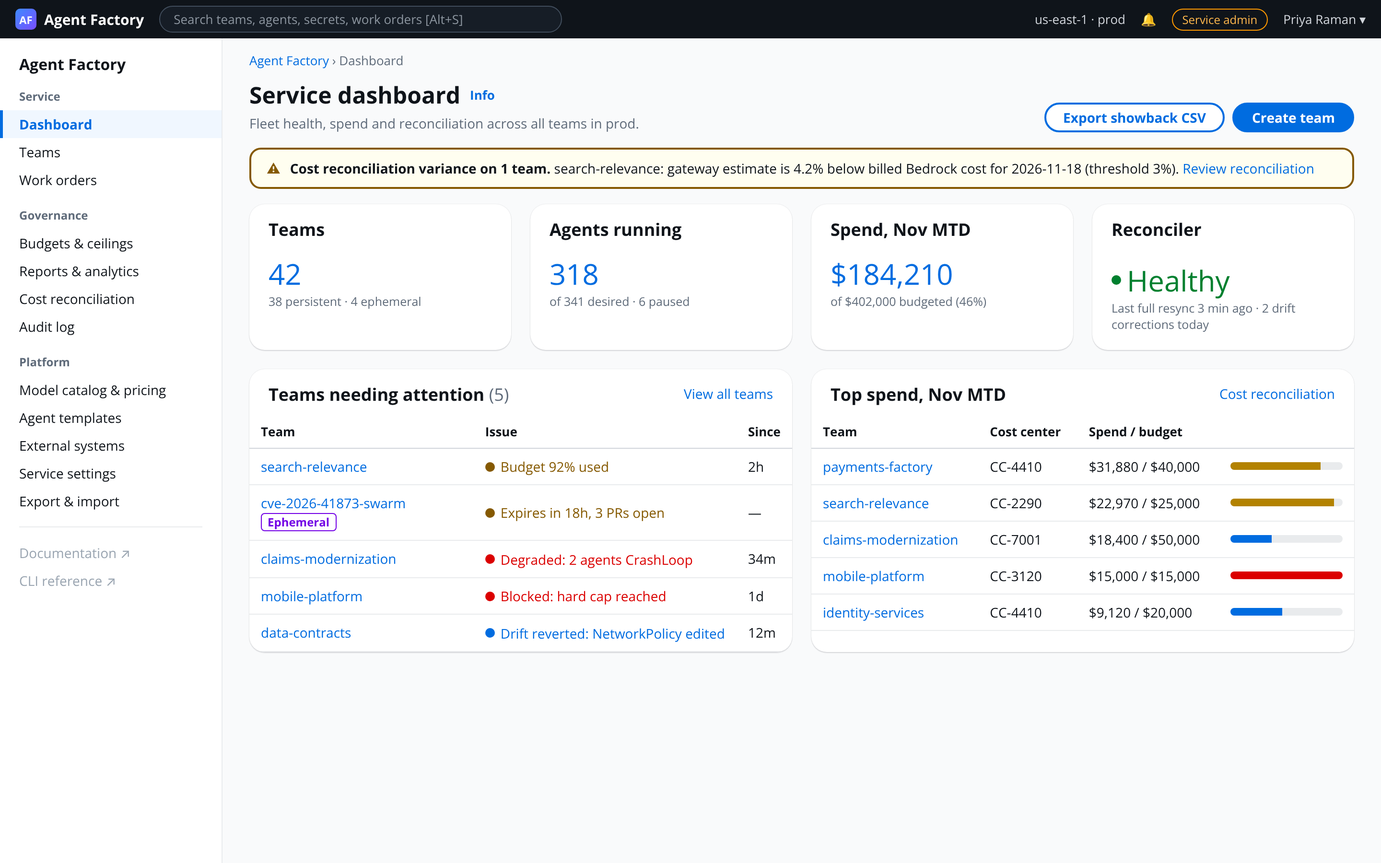
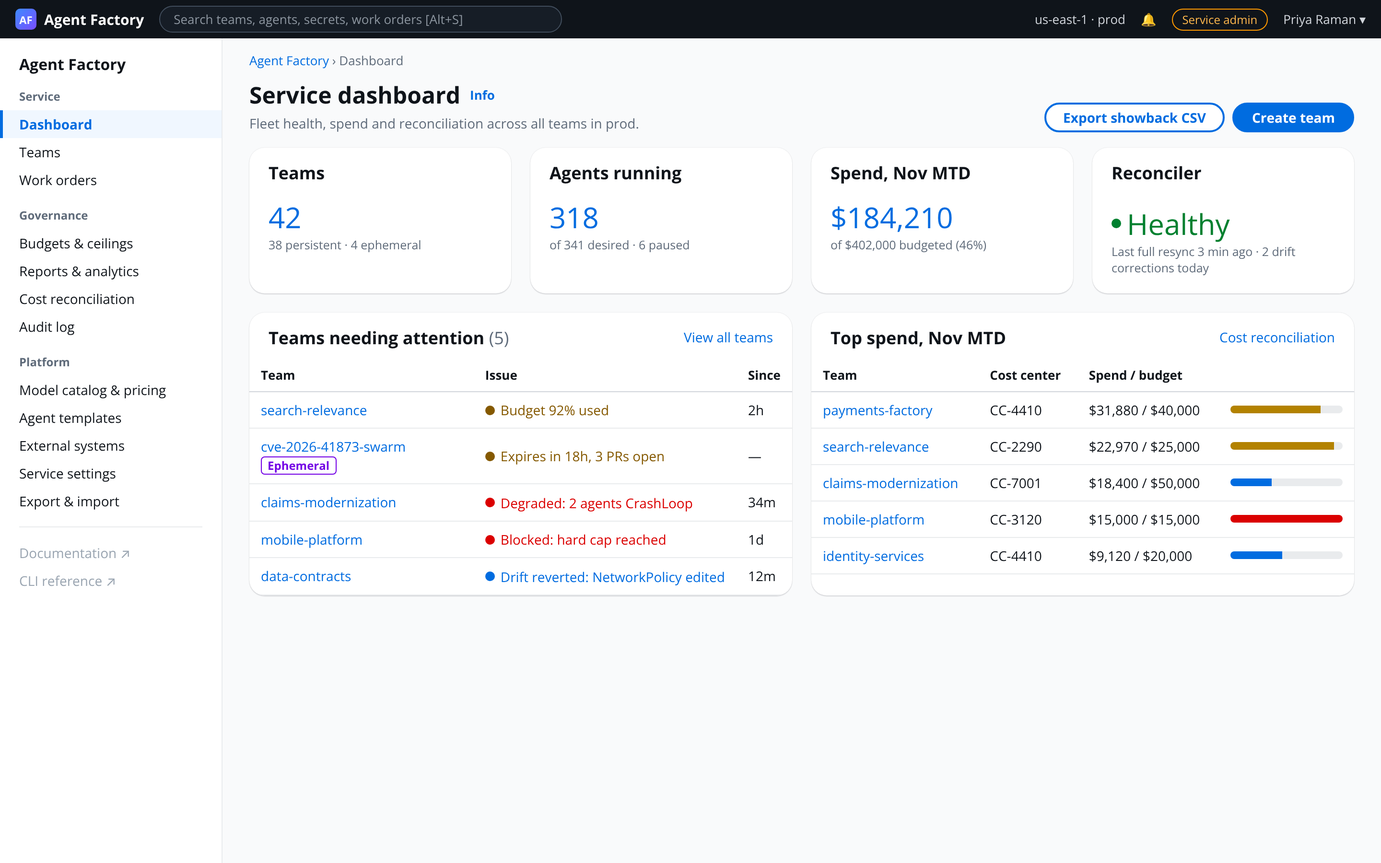
PRD: decisions log from J's answers to open questions and risks
- §10 becomes a decisions log (D1-D10) and a risk register: Okta default
  plus Entra ID at service and team level (ACC-1), Cilium, Agentic
  Teammates CRDs, one cluster per environment, break-glass by service
  admins, team-managed AWS account filter when allowed (TEAM-8, S6),
  non-Bedrock LLMs off, Bun as TypeScript runtime, per-agent credentials
  with login logging and credential redaction (OPS-4), no price-drift
  management (S4, S1, BUD-6). R1, R2, R4 accepted; R3 closed.
- Solution design §2.3 and §7.3 updated; ADR-012.
- Screens S1 (variance banner removed) and S6 (team-managed switch).

Claude-Session: https://claude.ai/code/session_01ScLWHFmFgCNKdDm4Z32AqG

diff --git a/docs/ui/source/18-admin-team-aws-accounts.html b/docs/ui/source/18-admin-team-aws-accounts.html
@@ -158,8 +158,9 @@ tr.sel td:first-child{box-shadow:inset 2px 0 0 var(--blue)}
 <div class="hdr"><div><h1>payments-factory</h1><div class="desc"><span class="st ok">Active</span> · namespace afs-t-payments-factory</div></div><div class="btns"><span class="btn">Suspend</span><span class="btn p">Edit</span></div></div>
 <div class="tabs"><span>Details</span><span>Members</span><span>Budget</span><span class="on">AWS account access</span><span>Audit</span></div>
 <div class="card"><div class="ch"><div><h2>Allowed accounts <span class="info">Info</span></h2>
-<div class="sub">Organization accounts this team's agents may assume roles in. Patterns match account ids or names; <span class="mono">*</span> and <span class="mono">?</span> are wildcards, and <span class="mono">*</span> alone means every account. Team-admins see this list but cannot change it.</div></div>
+<div class="sub">Organization accounts this team's agents may assume roles in. Patterns match account ids or names; <span class="mono">*</span> and <span class="mono">?</span> are wildcards, and <span class="mono">*</span> alone means every account. Team-admins see this list, and can change it only if the team manages its own accounts.</div></div>
 <div class="btns"><span class="btn p">Save changes</span></div></div><div class="cb">
+<div class="field"><label>Who manages this list</label><div style="display:flex;gap:10px;align-items:center"><span class="tg"></span> <span>Team manages its own accounts</span><span class="muted small">Off: only service admins change the list. On: this team's admins can change it too.</span></div></div>
 <div class="field"><label>Patterns</label><div class="hint">One per line. Up to 50.</div>
 <div class="input mono" style="height:auto;line-height:1.7">payments-*<br>777788889999</div></div>
 <div class="alert"><span class="ic">ⓘ</span><div class="small">Enforced three times: the API refuses links outside the filter, the database rejects them, and the team's IAM permissions boundary only allows <span class="mono">sts:AssumeRole</span> into matching accounts. Narrowing the filter disables links that fall outside it.</div></div>

diff --git a/docs/ui/source/01-admin-dashboard.html b/docs/ui/source/01-admin-dashboard.html
@@ -158,7 +158,6 @@ tr.sel td:first-child{box-shadow:inset 2px 0 0 var(--blue)}
 <div class="hdr"><div><h1>Service dashboard <span class="info">Info</span></h1>
 <div class="desc">Fleet health, spend and reconciliation across all teams in prod.</div></div>
 <div class="btns"><span class="btn">Export showback CSV</span><span class="btn p">Create team</span></div></div>
-<div class="alert warn"><span class="ic">⚠</span><div><b>Cost reconciliation variance on 1 team.</b> search-relevance: gateway estimate is 4.2% below billed Bedrock cost for 2026-11-18 (threshold 3%). <a>Review reconciliation</a></div></div>
 <div class="grid g4">
  <div class="card"><div class="ch"><h2>Teams</h2></div><div class="cb"><div class="big">42</div><div class="small muted">38 persistent · 4 ephemeral</div></div></div>
  <div class="card"><div class="ch"><h2>Agents running</h2></div><div class="cb"><div class="big">318</div><div class="small muted">of 341 desired · 6 paused</div></div></div>

diff --git a/docs/ui/source/gen.py b/docs/ui/source/gen.py
@@ -219,6 +219,10 @@ def st(kind, text):
     return f'<span class="st {kind}">{text}</span>'
 
 
+def tg(on, dis=False):
+    return f'<span class="tg{" on" if on else ""}{" dis" if dis else ""}"></span>'
+
+
 def bar(pct, cls=""):
     return f'<div class="bar {cls}"><i style="width:{min(pct,100)}%"></i></div>'
 
@@ -232,7 +236,6 @@ page("01-admin-dashboard", "admin", admin_nav("dash"), f"""
 <div class="hdr"><div><h1>Service dashboard <span class="info">Info</span></h1>
 <div class="desc">Fleet health, spend and reconciliation across all teams in prod.</div></div>
 <div class="btns"><span class="btn">Export showback CSV</span><span class="btn p">Create team</span></div></div>
-<div class="alert warn"><span class="ic">⚠</span><div><b>Cost reconciliation variance on 1 team.</b> search-relevance: gateway estimate is 4.2% below billed Bedrock cost for 2026-11-18 (threshold 3%). <a>Review reconciliation</a></div></div>
 <div class="grid g4">
  <div class="card"><div class="ch"><h2>Teams</h2></div><div class="cb"><div class="big">42</div><div class="small muted">38 persistent · 4 ephemeral</div></div></div>
  <div class="card"><div class="ch"><h2>Agents running</h2></div><div class="cb"><div class="big">318</div><div class="small muted">of 341 desired · 6 paused</div></div></div>
@@ -650,8 +653,9 @@ page("18-admin-team-aws-accounts", "admin", admin_nav("teams"), f"""
 <div class="hdr"><div><h1>payments-factory</h1><div class="desc">{st('ok','Active')} · namespace afs-t-payments-factory</div></div><div class="btns"><span class="btn">Suspend</span><span class="btn p">Edit</span></div></div>
 <div class="tabs"><span>Details</span><span>Members</span><span>Budget</span><span class="on">AWS account access</span><span>Audit</span></div>
 <div class="card"><div class="ch"><div><h2>Allowed accounts <span class="info">Info</span></h2>
-<div class="sub">Organization accounts this team's agents may assume roles in. Patterns match account ids or names; <span class="mono">*</span> and <span class="mono">?</span> are wildcards, and <span class="mono">*</span> alone means every account. Team-admins see this list but cannot change it.</div></div>
+<div class="sub">Organization accounts this team's agents may assume roles in. Patterns match account ids or names; <span class="mono">*</span> and <span class="mono">?</span> are wildcards, and <span class="mono">*</span> alone means every account. Team-admins see this list, and can change it only if the team manages its own accounts.</div></div>
 <div class="btns"><span class="btn p">Save changes</span></div></div><div class="cb">
+<div class="field"><label>Who manages this list</label><div style="display:flex;gap:10px;align-items:center">{tg(False)} <span>Team manages its own accounts</span><span class="muted small">Off: only service admins change the list. On: this team's admins can change it too.</span></div></div>
 <div class="field"><label>Patterns</label><div class="hint">One per line. Up to 50.</div>
 <div class="input mono" style="height:auto;line-height:1.7">payments-*<br>777788889999</div></div>
 <div class="alert"><span class="ic">ⓘ</span><div class="small">Enforced three times: the API refuses links outside the filter, the database rejects them, and the team's IAM permissions boundary only allows <span class="mono">sts:AssumeRole</span> into matching accounts. Narrowing the filter disables links that fall outside it.</div></div>
@@ -665,9 +669,6 @@ page("18-admin-team-aws-accounts", "admin", admin_nav("teams"), f"""
 </table></div>
 <div class="card"><div class="cb"><div class="k small muted">Equivalent CLI</div><div class="code">afs teams update-team --team-id team_01JD3Z… --allowed-aws-accounts "payments-*" 777788889999</div></div></div>
 """)
-
-def tg(on, dis=False):
-    return f'<span class="tg{" on" if on else ""}{" dis" if dis else ""}"></span>'
 
 CAT = [('Atlassian (Jira and Confluence)', 'Developer tools', '*.atlassian.net, api.atlassian.com +1', True, 14, 'Built in'), ('GitHub', 'Developer tools', 'github.com, api.github.com +2', True, 18, 'Built in'), ('Microsoft Outlook', 'Email', 'graph.microsoft.com, outlook.office365.com +1', True, 9, 'Built in'), ('Microsoft Teams', 'Collaboration', 'graph.microsoft.com +2', True, 11, 'Built in'), ('Microsoft Azure', 'Cloud', 'management.azure.com +2', True, 3, 'Built in'), ('Google Workspace and Cloud', 'Cloud', '*.googleapis.com, accounts.google.com', True, 5, 'Built in'), ('Slack', 'Collaboration', 'slack.com, *.slack.com', True, 12, 'Built in'), ('Okta', 'Identity', '*.okta.com, *.oktapreview.com', True, 4, 'Built in'), ('OpenAI', 'LLM · not Bedrock', 'api.openai.com', False, 0, 'Built in'), ('OpenRouter', 'LLM · not Bedrock', 'openrouter.ai', False, 0, 'Built in'), ('Internal artifact registry', 'Developer tools', 'nexus.corp.example:8443', True, 16, 'Custom')]
 

diff --git a/enterprise-agent-factory-service-initial-PRD.md b/enterprise-agent-factory-service-initial-PRD.md
@@ -83,7 +83,9 @@ on another. Only service admins grant service admin.
 | Secrets: see names, references, usage | ✓ | ✓ | ✓ |
 | Configuration values (namespace and agent): create, edit, delete | ✓ | ✓ | |
 | Configuration values: see names, values, sources | ✓ | ✓ | ✓ |
-| Team's allowed AWS accounts: set the filter | ✓ | | |
+| Team's allowed AWS accounts: set the filter | ✓ | ✓ (when the team may manage it) | |
+| Let a team manage its own AWS accounts or declare external systems | ✓ | | |
+| Identity providers (Okta, Entra ID) for the service or a team | ✓ | | |
 | Agent IAM identity and cross-account roles: add, remove, verify | ✓ | ✓ | |
 | Allowed accounts, agent roles, link status, trust policies: see | ✓ | ✓ | ✓ |
 | External systems catalog: add custom systems, turn systems off for all teams, allow teams to declare their own | ✓ | | |
@@ -157,8 +159,7 @@ The mockups below are high-fidelity wireframes for review. Data is illustrative.
 
 **S1 · Service dashboard.** Fleet at a glance: team and agent counts, month-to-date spend against total
 budget, reconciler health, teams needing attention (budget pressure, expiring ephemeral teams, degraded
-agents, hard-cap blocks, reverted drift), top spenders, and a banner when daily CUR reconciliation finds
-variance over threshold.
+agents, hard-cap blocks, reverted drift) and top spenders.
 
 ![Service admin dashboard](docs/ui/01-admin-dashboard.png)
 
@@ -176,8 +177,8 @@ and isolation tier.
 ![Create team wizard](docs/ui/03-admin-create-team.png)
 
 **S4 · Model catalog and pricing.** Bedrock models teams may enable, with effective-dated prices that the
-gateway uses for real-time spend reservation. Prices sync from the AWS Price List and can be adjusted
-when reconciliation shows variance.
+gateway uses for real-time spend reservation. Service admins maintain the prices the organization has
+agreed; there is no automatic price sync (decision D10).
 
 ![Model catalog](docs/ui/04-admin-models.png)
 
@@ -190,8 +191,8 @@ correction, filterable by team, actor, action and outcome, downloadable as CSV.
 allowed-accounts filter: glob patterns over AWS Organizations account ids and names (`*` for every
 account, `444455556666` for one, `payments-*` for a group by name). Below it, the organization accounts
 that currently match, which pattern matched, and how many agent links point at each. Narrowing the filter
-disables links that fall outside it. Team-admins see the filter on their agents' AWS access tab but cannot
-change it (TEAM-8).
+disables links that fall outside it. A *Team manages its own accounts* switch lets the team's admins edit
+the filter themselves; while it is off, only service admins can, and team-admins see it read-only (TEAM-8).
 
 ![Team AWS account access](docs/ui/18-admin-team-aws-accounts.png)
 
@@ -384,7 +385,7 @@ Priorities: **P0** required for the first production release (phase 1), **P1** p
 | TEAM-5 | Team status shows reconcile phase, observed generation and conditions | P0 |
 | TEAM-6 | Optional isolation tier assigns a dedicated node pool | P1 |
 | TEAM-7 | Ephemeral teams require an expiry and lifetime budget, and are torn down automatically | P2 |
-| TEAM-8 | Each team has an allowed-accounts filter: the organization accounts its agents may assume roles in, as glob patterns (`*` and `?`) over AWS account ids and names, with `*` for all accounts. Empty (the default) means none. AFS mirrors the AWS Organizations account list hourly so names resolve to ids; suspended or closing accounts never match. The filter is enforced in the API, in the database, and in the team's IAM permissions boundary (`sts:AssumeRole` only on `arn:aws:iam::<matching-account>:role/*`). Narrowing it disables links outside it. *Recommendation, to confirm:* service admins set the filter and team-admins choose targets within it | P1 |
+| TEAM-8 | Each team has an allowed-accounts filter: the organization accounts its agents may assume roles in, as glob patterns (`*` and `?`) over AWS account ids and names, with `*` for all accounts. Empty (the default) means none. AFS mirrors the AWS Organizations account list hourly so names resolve to ids; suspended or closing accounts never match. The filter is enforced in the API, in the database, and in the team's IAM permissions boundary (`sts:AssumeRole` only on `arn:aws:iam::<matching-account>:role/*`). Narrowing it disables links outside it. Service admins decide per team whether the team manages its own filter: when it does, its team-admins set it; when it does not, service admins set it (D6). Team-admins choose link targets within it either way | P1 |
 
 ### 6.2 Agents and identity
 
@@ -420,7 +421,7 @@ Priorities: **P0** required for the first production release (phase 1), **P1** p
 | BUD-3 | IAM explicit deny on the team's Bedrock role when the cap is reached (backstop), removed on reset or increase | P0 |
 | BUD-4 | Alerts at configurable thresholds (default 50/80/100%), once per period per threshold | P0 |
 | BUD-5 | Usage by agent, model and day in near real time | P0 |
-| BUD-6 | Daily CUR reconciliation of Bedrock (by inference-profile tag), EKS compute (split cost allocation by namespace) and agent volumes and snapshots (by `afs-team-id` tag); variance alerts over 3% | P1 |
+| BUD-6 | Daily CUR reconciliation of Bedrock (by inference-profile tag), EKS compute (split cost allocation by namespace) and agent volumes and snapshots (by `afs-team-id` tag), reported alongside the gateway's figures. No variance alerting or price-drift management: the organization and teams manage model pricing outside AFS (D10) | P1 |
 | BUD-7 | Showback export by cost center | P1 |
 | BUD-8 | Lifetime budgets with expiry for ephemeral teams | P2 |
 
@@ -428,7 +429,7 @@ Priorities: **P0** required for the first production release (phase 1), **P1** p
 
 | ID | Requirement | Pri |
 |---|---|---|
-| ACC-1 | SSO via the enterprise OIDC IdP: auth code + PKCE (web), device code (CLI) | P0 |
+| ACC-1 | SSO via OIDC: auth code + PKCE (web), device code (CLI). Okta (the default) and Microsoft Entra ID are both supported. Service admins configure the service's providers (one is the default) and can add a provider for one team, whose people then sign in to that team through it; group role bindings name the provider the group comes from. Client secrets are Secrets Manager references | P0 |
 | ACC-2 | Roles service admin, team-admin, team viewer, bound to users or IdP groups, per team | P0 |
 | ACC-3 | RBAC enforced in the REST API on every operation; `GET /v1/me` returns effective permissions for client UX | P0 |
 | ACC-4 | Team API keys (team-admin or viewer, max 90 days, hashed, shown once) | P1 |
@@ -453,6 +454,7 @@ Priorities: **P0** required for the first production release (phase 1), **P1** p
 | OPS-1 | Per-team log delivery to CloudWatch, S3, OTLP, Splunk HEC or Datadog | P1 |
 | OPS-2 | Events (team, agent, budget, drift, work order) published to EventBridge via a transactional outbox | P0 |
 | OPS-3 | Notification channels per team: Slack, email, webhook, Jira | P1 |
+| OPS-4 | Credential hygiene in logs: agent logs and external-traffic records pass through a redaction step before storage or delivery. Values that look like passwords, tokens or keys (and the values of the agent's own bound secrets) are replaced by a stable token (`[redacted:<hash prefix>]`), so repeats can be correlated without exposing the value. Agent sign-ins to external systems (connections to a system's sign-in endpoints) are logged as login events with the agent, system and time | P0 |
 
 ### 6.8 Work orders (phase 3)
 
@@ -536,23 +538,35 @@ the REST API contract in `-restapi/api/openapi.yaml`.
 | Phase 2 | TEAM-7, BUD-8, AGT-8 (with the pool shared named role), P2 screen | First POC team runs and tears itself down |
 | Phase 3 | WO-1/2, P3 screen | One CVE remediated across repos within SLA |
 
-## 10. Risks and open questions
+## 10. Decisions and risks
 
-| # | Item | Owner | Proposed answer |
+### 10.1 Decisions log
+
+Open questions answered by J on 2026-11-21. Each is reflected in the requirements above.
+
+| # | Question | Decision | Where |
 |---|---|---|---|
-| Q1 | Which IdP: Entra ID or Okta? Groups claim available? | J | Assume OIDC with groups claim; both supported |
-| Q2 | Network policy engine: VPC CNI or Cilium (FQDN egress)? | Platform | Cilium, for FQDN rules to SaaS endpoints |
-| Q3 | Agentic Teammates interface: CRD or Helm chart? | Agentic Teammates | Reconciler renders whichever; confirm before M2 |
-| Q4 | One shared cluster per environment, or per business unit? | J | Shared to start; `cluster_id` on teams allows split later |
-| Q5 | Who may raise a ceiling during an incident (break-glass)? | J | Service admins only, audited, with an expiry |
-| Q6 | Who sets a team's allowed AWS accounts? | J | Service admins (the guardrail); team-admins pick targets inside it (TEAM-8) |
-| Q7 | Should OpenAI and OpenRouter ship switched off at the service level? | J | Yes: they bypass metering and caps (EXT-6), so a service admin turns them on deliberately |
-| R1 | Namespace isolation shares the kernel | Security | Isolation tier with dedicated nodes for regulated work; gVisor/Kata later |
-| R2 | Gateway is on the critical path for every model call | Platform | Multi-AZ, fail closed, latency SLO, load tested in M3 |
-| R3 | Model price changes make estimates drift | FinOps | Daily reconciliation and variance alerts; price sync |
-| R4 | TypeScript 7 tooling maturity (no ESLint type-aware rules yet) | Web | Biome for lint, `tsc` 7 for types; revisit when typescript-eslint supports TS 7 |
-| R5 | Every allowed external system is a path for data to leave (for example posting to Slack) | Security | Narrow per agent (EXT-4), scope credentials per agent, log denied and allowed egress per pod, review team-declared systems in the audit log |
-| R6 | "Working" is inferred, so a busy agent that makes no model calls and uses little CPU can look idle | Platform | Agents report busy or idle on their status endpoint (Agentic Teammates contract); the CPU threshold is tunable; the definition is shown on every report |
+| D1 (Q1) | Which IdP? | Both Okta and Microsoft Entra ID, configurable at service level and per team. Okta is the default | ACC-1; schema `identity_providers` (000009) |
+| D2 (Q2) | Network policy engine? | Cilium, for FQDN egress rules | TEAM-3, EXT-5 |
+| D3 (Q3) | Agentic Teammates interface? | Kubernetes CRD. The reconciler renders the Agentic Teammates custom resources | Solution design §3.1 |
+| D4 (Q4) | Cluster topology? | One shared EKS cluster per environment (dev, stage, prod); `cluster_id` on teams allows a split later | Solution design §2.3 |
+| D5 (Q5) | Who may raise a ceiling during an incident? | Service admins only, audited, with an expiry | BUD-1 |
+| D6 (Q6) | Who sets a team's allowed AWS accounts? | Team management of the filter is optional per team. When service admins allow it, the team's admins set it; otherwise service admins must | TEAM-8, S6; schema `teams.may_manage_aws_accounts` (000009) |
+| D7 (Q7) | Ship OpenAI and OpenRouter switched off? | Yes | EXT-6 |
+| D8 | TypeScript runtime | Use Bun as the runtime (install, scripts, tests, dev server) where it is available, with Node.js 22 as the fallback | Solution design §12 |
+| D9 (R5) | Credentials for external systems | Credentials are per agent through Secrets, not a separate per-system enablement. Log agents' sign-ins to external systems, and redact (tokenize) passwords and other credentials wherever they appear in logs | OPS-4, SEC-3 |
+| D10 (R3) | Model price drift | The organization and teams manage model pricing outside AFS. No automatic price sync, variance alerting or price-drift management; CUR figures are shown beside gateway figures for reference | S4, BUD-6 |
+
+### 10.2 Risks
+
+| # | Risk | Owner | Response |
+|---|---|---|---|
+| R1 | Namespace isolation shares the kernel | Security | **Accepted** (J). Isolation tier with dedicated nodes for regulated work; gVisor/Kata later |
+| R2 | Gateway is on the critical path for every model call | Platform | **Accepted** (J). Multi-AZ, fail closed, latency SLO, load tested in M3 |
+| R3 | Model price changes make estimates drift | FinOps | **Closed** by D10: pricing is managed outside AFS |
+| R4 | TypeScript 7 tooling maturity (no ESLint type-aware rules yet) | Web | **Accepted** (J). Biome for lint, `tsc` 7 for types; revisit when typescript-eslint supports TS 7 |
+| R5 | Every allowed external system is a path for data to leave (for example posting to Slack) | Security | Narrow per agent (EXT-4); credentials per agent through Secrets (D9); log sign-ins and egress per pod; redact credentials in logs (OPS-4); review team-declared systems in the audit log |
+| R6 | "Working" is inferred, so a busy agent that makes no model calls and uses little CPU can look idle | Platform | Open. Agents report busy or idle on their status endpoint (Agentic Teammates contract); the CPU threshold is tunable; the definition is shown on every report |
 
 ## 11. Glossary
 

diff --git a/docs/solution-design.md b/docs/solution-design.md
@@ -66,10 +66,13 @@ The Agent Factory Service (AFS) lets enterprise teams create and run their own *
 
 ### 2.3 Assumptions and open questions
 
-1. **IdP:** OIDC-compliant enterprise IdP (Entra ID or Okta). Groups claim available for role mapping. *Confirm which.*
-2. **Cluster topology:** one shared EKS cluster per environment (dev/stage/prod) to start. The design allows a `cluster_id` per team later.
-3. **Network policy engine:** VPC CNI native network policy, or Cilium if FQDN egress rules are wanted. *Recommend Cilium for FQDN egress (GitHub, Jira, package registries).*
-4. **Agentic Teammates contract:** assumed to expose a Kubernetes CRD (e.g. `AgentTeam`/`Agent`) or Helm chart. The reconciler renders whichever it exposes. *Confirm the interface.*
+Decided by J on 2026-11-21 (PRD §10.1):
+
+1. **IdP:** Okta (default) and Microsoft Entra ID, both OIDC with a groups claim, configured in `identity_providers` at service level and optionally per team. `users` are keyed by (issuer, subject), so one person can come from either.
+2. **Cluster topology:** one shared EKS cluster per environment (dev/stage/prod). The design allows a `cluster_id` per team later.
+3. **Network policy engine:** Cilium (FQDN egress, Hubble flow logs).
+4. **Agentic Teammates contract:** Kubernetes CRDs. The reconciler renders the Agentic Teammates custom resources for each agent.
+5. **TypeScript runtime:** Bun where available (installs, scripts, tests, dev server), Node.js 22 as the fallback. `tsc` 7 still type-checks; Biome still lints.
 5. **Currency:** USD only.
 
 ## 3. Architecture overview
@@ -119,7 +122,7 @@ The Agent Factory Service (AFS) lets enterprise teams create and run their own *
 - The AWS Organizations account list, mirrored hourly into `org_aws_accounts` (id, name, status). Each link is verified by assuming its role with the agent's identity on creation, daily and on demand; the result (`pending_trust`, `verified`, `failed`) is written to `agent_role_links`. Links whose account falls outside the filter or is suspended are set to `disabled` and removed from the agent's grants and profile file.
 - Bedrock application inference profile per (team, model) with cost allocation tags.
 - ExternalSecret (External Secrets Operator) objects that project referenced Secrets Manager entries into the namespace.
-- Agent workloads rendered from the Agentic Teammates CRD/Helm chart.
+- Agent workloads rendered as Agentic Teammates custom resources (CRD).
 - Log delivery (Fluent Bit output per team or CloudWatch subscription filters).
 
 It records `observed_generation`, phase and conditions per resource in `resource_status`, which the API and UI display. Drift (live state differs from desired) is corrected and logged as an audit event with actor `system:reconciler`. Deletes use an ordered finalizer flow: scale agents to zero, apply each agent's on-delete rule to its volume (final snapshot, then delete or retain), revoke IAM, delete inference profiles, delete namespace, mark row `deleted`.
@@ -259,6 +262,7 @@ Reserve → invoke → settle, as in section 3.1. Thresholds emit `budget.thresh
 - Real-time view: from `spend_counters` and `usage_events` (seconds).
 - Daily reconciled view: from CUR via the ingestor, including EKS compute (split cost allocation by namespace) and any non-gateway spend.
 - Showback/chargeback export by cost center (CSV via API).
+- **Credential hygiene.** Agent logs pass through a Fluent Bit redaction filter before delivery: values that look like passwords, tokens or keys, and the values of the agent's bound secrets (loaded as hashes, never as plaintext), are replaced with `[redacted:<8-char hash prefix>]`. Connections to a system's sign-in endpoints are logged as `agent.external_login` events.
 - **Agent activity.** An activity collector in `afs-reconciler` writes one `agent_activity` row per running agent every five minutes. It combines the window's `usage_events` (model calls, tokens, cost), the agent's status endpoint (the Agentic Teammates runtime reports busy or idle and a short note of what it is doing), pod CPU and memory from the metrics API, and the pod's phase. *Working* = any model call, a busy report, or CPU above `reports.idle_cpu_millicores` (service setting, default 50). Paused, stopped, unhealthy and budget-blocked agents are recorded as such. `agent_activity_daily` gives time in state and utilization; `agent_activity_current` gives the current state and `idle_since`.
 - **External traffic.** A traffic collector reads Cilium Hubble flow logs (L3/L4 flows with the DNS name each connection was for, and the policy verdict) and writes `external_traffic` rows per agent, host and verdict every five minutes, matched to the agent's external systems. Where an egress proxy terminates HTTP for a system, it adds request and error counts. Denied flows record the reason (system off at service, team or agent level, or not in the catalog), and a spike in denials raises an `egress.denied_spike` event.
 - **Report API.** `GET /v1/reports/{usage|costs|activity|traffic}` (service admins, all teams) and `GET /v1/teams/{teamId}/reports/{…}` and `GET /v1/teams/{teamId}/agents/{agentId}/reports/{…}` take `from`, `to`, `groupBy` (team, agent, model, system, day, hour) and filters, and return JSON or CSV (`Accept: text/csv`). Queries read the daily views for ranges over two days and the five-minute tables otherwise. Scheduled reports are stored per team and delivered through notification channels.
@@ -382,6 +386,7 @@ web/src/
   main/            composition root: wires adapters into use cases, provides via context
 ```
 
+- Runtime: Bun where available for install, scripts, tests and the dev server; Node.js 22 with pnpm as the fallback (D8).
 - Stack: React 19, React Router, TanStack Query (caching in presentation, not in domain), Vite for bundling, `tsc` 7 for type-checking (`--noEmit`), Vitest for unit tests of domain and use cases, Playwright for e2e.
 - Permission checks live in `domain/permission.ts` (`can(principal, "agents:write", teamId)`) and are used by view models to hide or disable controls. The API remains authoritative; a 403 surfaces as an "access denied" banner.
 - No secret value is ever held in client state beyond the input field during a create/rotate submit.
@@ -404,7 +409,7 @@ enterprise-agent-factory-service/              docs-only root: PRD, this design,
     deploy/helm/  deploy/terraform/
   enterprise-agent-factory-service-cli/        Go 1.27
     cmd/afs  internal/cli  (client generated from the OpenAPI contract)
-  enterprise-agent-factory-service-website/    TypeScript 7 pnpm workspace
+  enterprise-agent-factory-service-website/    TypeScript 7 workspace (Bun where available, pnpm/Node fallback)
     packages/sdk/      @afs/sdk
     apps/console/      web management console (clean architecture)
 ```
@@ -424,6 +429,6 @@ enterprise-agent-factory-service/              docs-only root: PRD, this design,
 | Agent → Bedrock auth | Projected SA token to gateway; gateway assumes team role | Agents call Bedrock directly | Direct calls cannot be metered or capped in real time |
 | Secrets | Secrets Manager refs + ESO | Store encrypted values in DB | Keeps AFS out of the secret blast radius |
 | CLI language | Go | Python (like AWS CLI) | Single static binary, shares API types |
-| Network policy | Cilium (recommended) | VPC CNI network policy | FQDN egress rules for SaaS endpoints |
+| Network policy | Cilium (decided) | VPC CNI network policy | FQDN egress rules for SaaS endpoints |
 | Egress control | External systems catalog with service → team → agent opt-outs, rendered as per-agent FQDN policy | Free-form host allow-list per team | Named, documented, centrally governed services; per-agent least privilege; one place to see who can reach what |
 | Cross-account access | Dedicated agent role + role links with external IDs, inside a per-team glob filter | Shared team role trusted by every target account | Least privilege per agent, CloudTrail attribution in the target account, and a guardrail central teams control |

diff --git a/docs/architectural-decision-record.md b/docs/architectural-decision-record.md
@@ -156,3 +156,15 @@ Accepted, Proposed (needs review), Superseded.
   definition is shown with every report and agents are asked to report their own state. Spend with
   non-Bedrock model providers is not reported.
 
+## ADR-012 Answers to the PRD open questions
+
+- Status: Accepted (J, 2026-11-21)
+- Context: the PRD listed open questions Q1 to Q7 and risks R1 to R5.
+- Decision: Okta (default) and Entra ID at service and team level; Cilium; Agentic Teammates CRDs; one
+  shared cluster per environment; break-glass ceilings by service admins; teams manage their own AWS
+  account filter only when service admins allow it; non-Bedrock LLMs ship off; Bun as the TypeScript
+  runtime where available; credentials per agent through Secrets with sign-ins logged and credentials
+  redacted from logs; no model price-drift management. R1, R2 and R4 accepted.
+- Consequences: schema 000009 adds `identity_providers` and `teams.may_manage_aws_accounts`. The website
+  toolchain moves to Bun in its own change. BUD-6 loses variance alerts. See PRD §10.1 for the full log.
+
